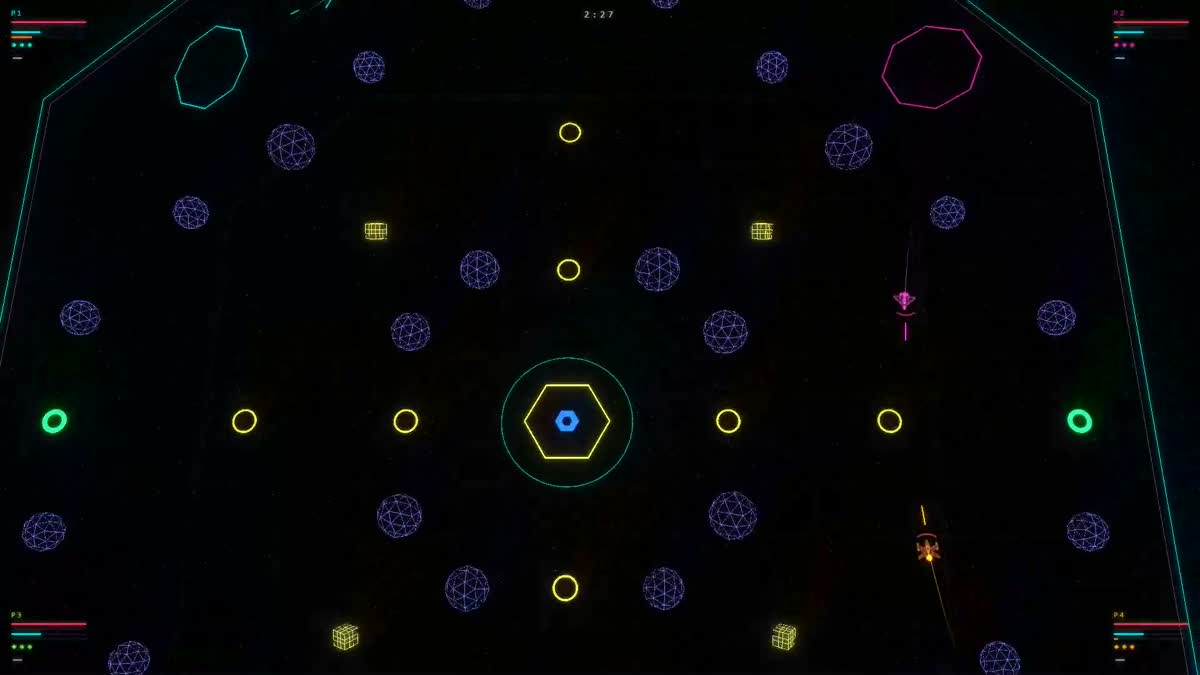
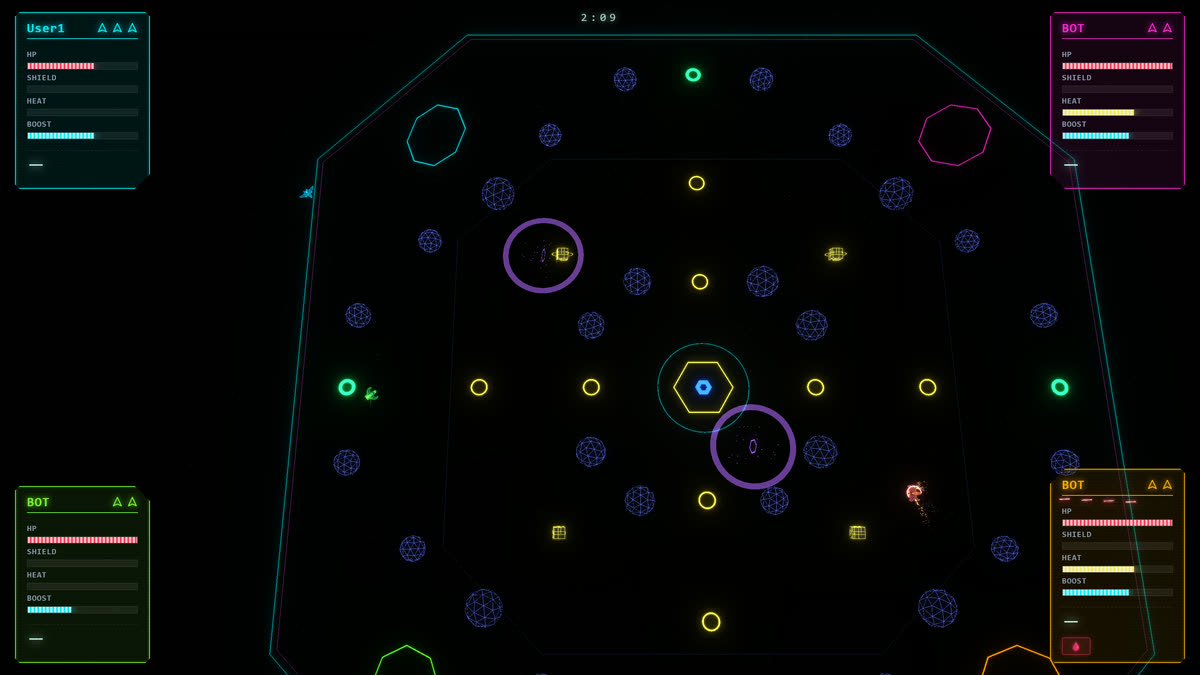
docs: reshoot the stills on the current HUD and add a close-up of every special
still-arena.jpg and still-tractor.jpg still showed the old flat HUD bars, so
both are recaptured on the chamfered vertical panels. The tractor shot is
replaced by still-action.jpg, a ring-out with the kill feed and debris.

public/weapons/ adds a close-up of all nine specials firing, captured in the
combat sandbox; GAMEPLAY.md carries them as a gallery under the weapon table.
combat.html gains a one-line hook exposing its renderer so the sandbox camera
can be aimed for shots like these.

Claude-Session: https://claude.ai/code/session_01J4dWTk6Yhbzf1WcEchCqZR

diff --git a/combat.html b/combat.html
@@ -235,6 +235,7 @@
       sfxTrack(false); // Play battle music track!
       const view = create();
       const rendererCanvas = view.Renderer.domElement;
+      window.__nda = { view, THREE, world: () => worldState };
 
       // Enable a completely blank canvas: hide background octagon frames, grids, spawn rings, stars, and black holes
       view.Frame.visible = false;

diff --git a/GAMEPLAY.md b/GAMEPLAY.md
@@ -76,6 +76,16 @@ Four weapon crates sit in the arena at all times, one per quadrant. Grabbing one
 | BARRIER | Two charges. RB plants a glowing wall 60 units ahead, across your nose. It swallows every bullet that touches it - yours included - and bounces any ship that runs into it. Gone after 6 s. |
 | SENTRY | One charge. RB drops a hexagonal turret at your tail. It tracks the nearest enemy inside 420 units and fires your blaster at them every 0.25 s, never at you or your team. It has 60 hull, enemy fire chews through it, and it packs up after 15 s. |
 | TIME BUBBLE | One charge. RB drops a 220-unit dome of slow time around you that lasts 4 s. You and your team pass through untouched; every enemy ship, bullet, mine and rolling rock inside runs at 40% speed, cooldowns and all. |
+
+### Every special, up close
+
+Each shot is the weapon firing in the sandbox (`combat.html`), cyan ship on the left, magenta target on the right.
+
+| | | |
+|---|---|---|
+| ![The railgun beam crossing the arena into a bright impact burst](public/weapons/railgun.jpg)<br>**RAILGUN** | ![A dormant mag mine glowing between the two ships](public/weapons/mag-mines.jpg)<br>**MAG MINES** | ![A seeker trailing sparks into the target's hit arc](public/weapons/seekers.jpg)<br>**SEEKERS** |
+| ![The repulsor shockwave expanding as a white ring](public/weapons/repulsor.jpg)<br>**REPULSOR** | ![The scatter gun's electrical discharge spraying forward](public/weapons/scatter-gun.jpg)<br>**SCATTER GUN** | ![The tractor beam latched onto the enemy ship](public/weapons/tractor.jpg)<br>**TRACTOR** |
+| ![A barrier wall planted across the ship's nose](public/weapons/barrier.jpg)<br>**BARRIER** | ![A sentry turret firing on the enemy ship](public/weapons/sentry.jpg)<br>**SENTRY** | ![The time bubble as a pale dome around the ship](public/weapons/time-bubble.jpg)<br>**TIME BUBBLE** |
 | TRACTOR | Two charges. Hold RB to charge like the railgun; a faint bubble shows the reach (half a blaster shot). On full charge it latches the thing you are facing, enemy ships first, then asteroids. A ship gets dragged toward you for 1.4 s so you can ram it; a rock reels you in instead. |
 
 ## Race mode

diff --git a/README.md b/README.md
@@ -39,7 +39,7 @@ Five arena layouts, three race tracks, and mutators that turn everything into ra
 
 Every keyboard action rebinds in SETTINGS, and REDUCE FLASHING, SCREEN SHAKE and CATCH-UP are toggles, not fixed.
 
-![A lime ship charging the tractor beam while a railgun bolt crosses the arena](public/still-tractor.jpg)
+![A ring-out: the kill feed names the victim, debris scatters off the rim and a seeker streaks across the arena](public/still-action.jpg)
 
 ## Play it
 
